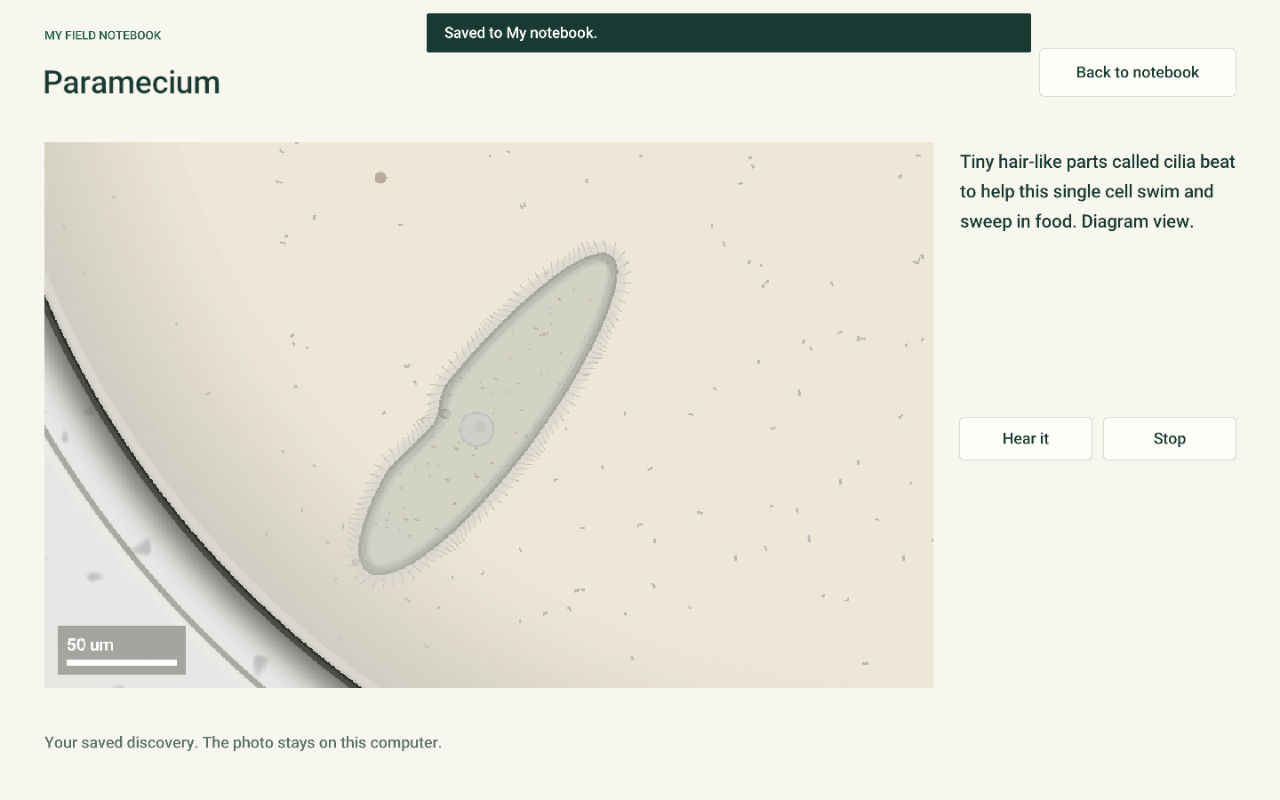
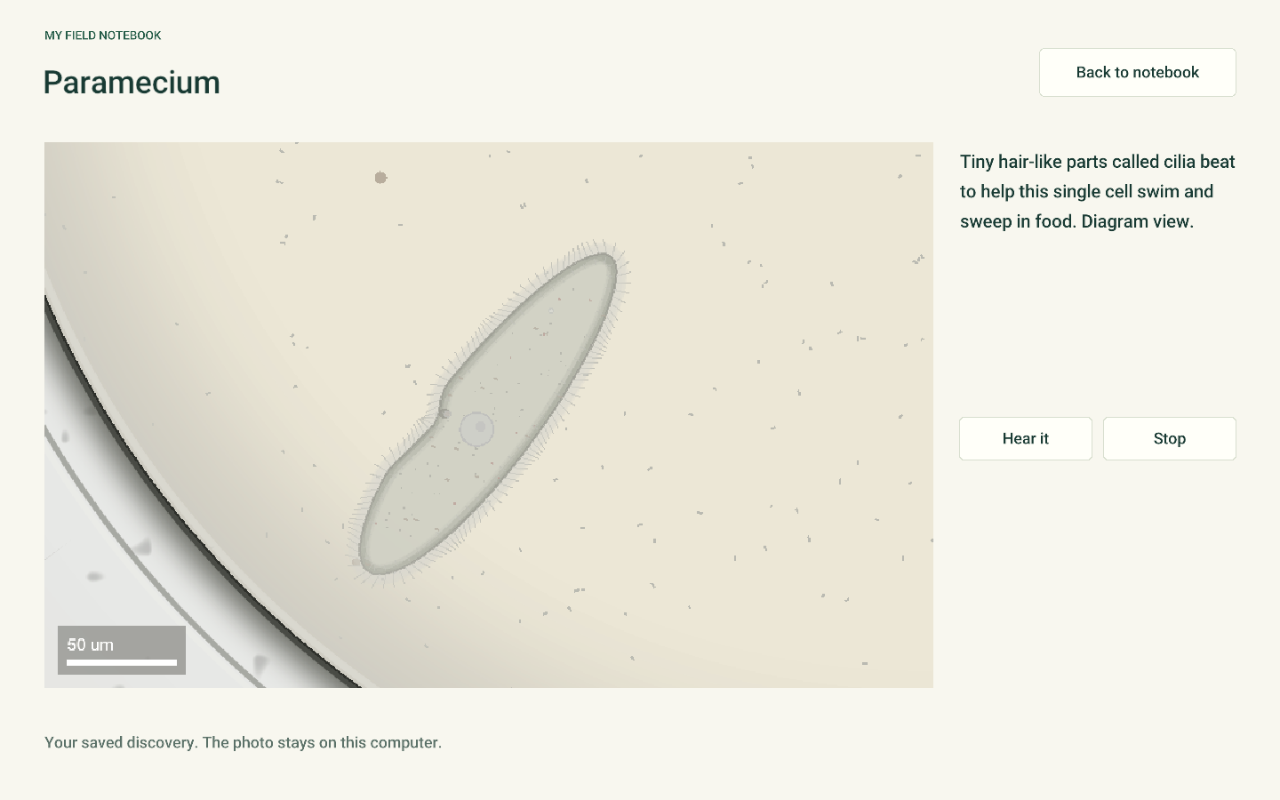
Improve spoken navigation and preserve specimen proportions in previews

Changed region(s): [[0.3125, 0.0, 0.8125, 0.0938]]

diff --git a/src/kids/main.cpp b/src/kids/main.cpp
@@ -183,6 +183,7 @@ class Application {
     std::unique_ptr<Renderer> renderer;
     RenderTexture2D canvas{}, view{}, before{};
     std::array<Texture2D, 4> previews{};
+    Texture2D labPreview{};
     Camera2D camera{};
     std::vector<Photo> photos;
     std::filesystem::path data;
@@ -205,7 +206,8 @@ class Application {
     void start(int selected);
     void renderView();
     void drawAnatomy();
-    void drawTexture(Texture2D t, Rectangle target, Color tint = WHITE);
+    void drawTexture(Texture2D t, Rectangle target, Color tint = WHITE, bool crop = false);
+    float creatureZoom() const;
     void say(const std::string &s);
     void stopSpeech();
     void note(const std::string &s) {
@@ -218,10 +220,44 @@ class Application {
     std::string narration() const;
 };
 
-void Application::drawTexture(Texture2D t, Rectangle r, Color tint) {
-    if (t.id)
-        DrawTexturePro(t, {0, 0, static_cast<float>(t.width), static_cast<float>(t.height)}, r,
-                       {0, 0}, 0, tint);
+void Application::drawTexture(Texture2D t, Rectangle r, Color tint, bool crop) {
+    if (!t.id)
+        return;
+    Rectangle source{0, 0, static_cast<float>(t.width), static_cast<float>(t.height)};
+    const float scale = crop ? std::max(r.width / source.width, r.height / source.height)
+                             : std::min(r.width / source.width, r.height / source.height);
+    if (crop) {
+        source.width = r.width / scale;
+        source.height = r.height / scale;
+        source.x = (static_cast<float>(t.width) - source.width) / 2;
+        source.y = (static_cast<float>(t.height) - source.height) / 2;
+    } else {
+        const float width = source.width * scale, height = source.height * scale;
+        r = {r.x + (r.width - width) / 2, r.y + (r.height - height) / 2, width, height};
+    }
+    DrawTexturePro(t, source, r, {0, 0}, 0, tint);
+}
+
+float Application::creatureZoom() const {
+    if (!session.world || session.selected.kind != Picked::Kind::Cell)
+        return 2.0f;
+    const auto *body = session.world->registry().try_get<RingBody>(session.selected.entity);
+    if (!body)
+        return 2.0f;
+    const Vec2 size = body->aabbMax - body->aabbMin;
+    const float extent = std::max(size.x, size.y);
+    float zoom = 300.0f / std::max(1.0f, extent);
+    // El hilo de Euglena necesita margen al girar. Usa el mismo largo que el render.
+    if (session.selectedCreature() == 2) {
+        float halfLength = 0;
+        for (const Vec2 &point : body->restRing)
+            halfLength = std::max(halfLength, std::abs(point.x));
+        const auto &info =
+            speciesInfo(session.world->registry().get<Species>(session.selected.entity).id);
+        const float flagellum = info.flagellumLength > 0 ? info.flagellumLength : 2.2f * halfLength;
+        zoom = std::min(zoom, 220.0f / std::max(1.0f, halfLength + flagellum + 4.0f));
+    }
+    return std::clamp(zoom, .25f, 10.0f);
 }
 
 void Application::stopSpeech() {
@@ -241,6 +277,7 @@ void Application::start(int selected) {
         return;
     }
     try {
+        stopSpeech();
         session.start(static_cast<kids::Experience>(route), selected);
         activity = true;
         baselineRequested = false;
@@ -255,7 +292,7 @@ void Application::start(int selected) {
         camera.zoom = route == 3 ? 2.1f : 1.05f;
         camera.offset = {viewRect.width / 2, viewRect.height / 2};
         if (route == 2 || route == 4)
-            camera.zoom = 2.0f;
+            camera.zoom = creatureZoom();
         renderView();
         BeginTextureMode(before);
         DrawTextureRec(view.texture,
@@ -309,6 +346,12 @@ void Application::home() {
     ui.text("SMALL WORLD, BIG DISCOVERIES", 255, 44, 16, green);
     ui.text("What will you discover today?", 252, 77, 42);
     ui.text("Look closer. Try something. Follow your curiosity.", 255, 137, 23, muted);
+    if (ui.button("Hear choices", {1040, 118, 220, 48}))
+        say("Choose your adventure. Pocket Pond: explore a habitat. Tiny Detectives: solve a "
+            "little mystery. Micro Safari: meet a living thing. Wonder Lab: try an experiment. "
+            "A Drop of Adventure: follow a story. Your saved photos are in My notebook.");
+    if (ui.button("Stop", {1275, 118, 127, 48}))
+        stopSpeech();
     const Rectangle hero{254, 195, 1148, 262};
     habitatArt(hero, 0);
     ui.box({276, 218, 493, 216}, paper);
@@ -330,6 +373,7 @@ void Application::home() {
         ui.text(names[static_cast<std::size_t>(i)], x + 79, y + 24, 27);
         ui.text(verbs[static_cast<std::size_t>(i)], x + 79, y + 67, 21, muted);
         if (ui.button("Go", {x + 453, y + 70, 85, 44})) {
+            stopSpeech();
             route = i;
             choice = 0;
             activity = false;
@@ -342,6 +386,22 @@ void Application::chooser() {
     ui.text("CHOOSE YOUR ADVENTURE", 255, 43, 16, green);
     ui.text(names[static_cast<std::size_t>(route)], 252, 79, 46);
     ui.text(subtitles[static_cast<std::size_t>(route)], 255, 143, 24, muted);
+    if (route == 0 || route == 2) {
+        if (ui.button("Hear choices", {1040, 118, 220, 48})) {
+            if (route == 0)
+                say("Choose a habitat. Pond: still water, lots to discover. Puddle: a little "
+                    "world after the rain. Moss: a wet home among tiny leaves. These are small, "
+                    "prepared samples of life from each habitat.");
+            else {
+                std::string choices = "Choose a tiny living thing to meet. ";
+                for (const auto &creature : kids::creatures())
+                    choices += std::string(creature.name) + ": " + creature.title + ". ";
+                say(choices + "The previews are shown at different sizes.");
+            }
+        }
+        if (ui.button("Stop", {1275, 118, 127, 48}))
+            stopSpeech();
+    }
     if (route == 0) {
         const char *labels[] = {"Pond", "Puddle", "Moss"};
         const char *desc[] = {"Still water. Lots to discover.", "A little world after the rain.",
@@ -360,14 +420,15 @@ void Application::chooser() {
             const float x = 254 + static_cast<float>(i % 2) * 586,
                         y = 212 + static_cast<float>(i / 2) * 285;
             ui.box({x, y, 562, 258}, white);
-            drawTexture(previews[static_cast<std::size_t>(i)], {x + 16, y + 18, 218, 173});
+            drawTexture(previews[static_cast<std::size_t>(i)], {x + 16, y + 18, 218, 173}, WHITE,
+                        true);
             const auto &c = kids::creatures()[static_cast<std::size_t>(i)];
             ui.text(c.name, x + 254, y + 28, 28);
             ui.wrap(c.title, x + 254, y + 76, 275, 23);
             if (ui.button(std::string("Meet ") + c.name, {x + 254, y + 170, 280, 58}, true))
                 start(i);
         }
-        ui.text("These are simulated living things, not photographs.", 255, 824, 19, muted);
+        ui.text("Preview sizes differ. Meet one to see its scale.", 255, 824, 19, muted);
     } else {
         const char *heading = route == 1   ? "Who swims with tiny hairs?"
                               : route == 3 ? "What if we add salt?"
@@ -382,7 +443,7 @@ void Application::chooser() {
         if (route == 4)
             habitatArt({278, 242, 500, 466}, 0);
         else
-            drawTexture(previews[route == 3 ? 1 : 0], {278, 242, 500, 466});
+            drawTexture(route == 3 ? labPreview : previews[0], {278, 242, 500, 466}, WHITE, true);
         ui.text(route == 1   ? "CASE 01"
                 : route == 3 ? "TRY IT AND SEE"
                              : "LISTEN AND LOOK",
@@ -953,7 +1014,7 @@ int Application::run(int argc, char **argv) {
     for (int i = 0; i < 4; ++i) {
         session.start(kids::Experience::Safari, i);
         camera = {};
-        camera.zoom = i == 3 ? .65f : 1.4f;
+        camera.zoom = creatureZoom();
         camera.offset = {402, 247};
         Vec2 pos;
         if (session.selectedPosition(pos))
@@ -966,6 +1027,16 @@ int Application::run(int argc, char **argv) {
         previews[static_cast<std::size_t>(i)] = LoadTextureFromImage(image);
         UnloadImage(image);
     }
+    session.start(kids::Experience::Lab);
+    camera = {};
+    camera.zoom = 2.1f;
+    camera.offset = {402, 247};
+    camera.target = {session.world->width() / 2, session.world->height() / 2};
+    renderView();
+    Image labImage = LoadImageFromTexture(view.texture);
+    ImageFlipVertical(&labImage);
+    labPreview = LoadTextureFromImage(labImage);
+    UnloadImage(labImage);
     int screenshotFrames = 0;
     std::string screenshot;
     for (int i = 1; i < argc; ++i) {
@@ -1091,6 +1162,8 @@ int Application::run(int argc, char **argv) {
     for (auto t : previews)
         if (t.id)
             UnloadTexture(t);
+    if (labPreview.id)
+        UnloadTexture(labPreview);
     for (auto t : habitatTextures)
         if (t.id)
             UnloadTexture(t);

diff --git a/docs/design/kids-review.md b/docs/design/kids-review.md
@@ -36,6 +36,22 @@ without scrolling or clipped controls. The read-aloud controls stay in place whe
 explanations change. Story progression keeps its button position between chapters.
 Keyboard focus is visible; Tab, Enter, Space, +/- and Escape have been exercised.
 
+An additional review found that early readers needed help before entering an
+activity. Home, habitat selection and organism selection now offer “Hear
+choices” and Stop. The guide was exercised through native clicks and a local
+Speech Dispatcher playback stream. A screenshot exposed overlap with the
+speech-status banner; moving the controls below it resolved that overlap.
+
+Organism thumbnails originally stretched a wide viewport into a narrower box,
+and Euglena was too small to recognise. Previews now preserve proportions and
+frame each organism with its own camera zoom. The picker states that sizes
+differ. Live Safari initially fits its organism too. The Wonder Lab introduction
+now renders its own onion preparation instead of reusing the Amoeba preview.
+Saved photos use proportional fitting to retain the full picture and scale bar.
+The corrected [organism picker](../img/kids/safari-choices.png),
+[Euglena framing](../img/kids/safari-euglena.png) and
+[onion introduction](../img/kids/lab-chooser.png) are native captures of this pass.
+
 Photo viewing was added after reviewing the notebook at full size. Scale labels
 now use the app font, while seed and timing remain in the provenance sidecar.
 Only the visible notebook page loads image textures. Empty/end pagination is disabled.
@@ -83,6 +99,13 @@ six failures in complex candidate division tests; see
 No tests have been skipped or marked expected failure to hide those results.
 The neutrophil approach test was changed separately to state individual and
 ensemble stochastic expectations; no biological parameters were tuned.
+
+A focused Gonium run reproduced two boundary failures under ASan/UBSan without
+a sanitizer diagnostic. A geometry trace finds transient crossings shortly
+after daughter release. A separate Ceratium trace remains in division at 180
+simulation seconds, with progress approximately 6 and a stalled furrow. These
+observations narrow the investigation; they do not establish a fix or validate
+those mechanisms.
 
 ## Remaining acceptance work
 

diff --git a/docs/mechanics/kids-interface.md b/docs/mechanics/kids-interface.md
@@ -101,3 +101,16 @@ honours `XDG_DATA_HOME`; the default remains `~/.local/share/open-microcosm-kids
 Kids photos use the app font for a clear scale bar. Run time and seed remain in
 its JSON sidecar rather than being stamped across the child's picture. The
 original laboratory retains its existing stamped-photo defaults.
+
+Home, habitat selection and organism selection provide a local “Hear choices”
+guide before a child enters an activity. Starting an activity or changing pages
+stops the previous guide. The guide controls sit below the transient status
+banner so both remain readable while speech is playing.
+
+Picker previews preserve the renderer's proportions: they are cropped to fill
+their thumbnail, never stretched. Their camera zoom fits the chosen organism,
+and a visible note explains that preview sizes differ. Live Safari also frames
+the selected organism initially; the live scale bar remains authoritative.
+The Wonder Lab introduction is rendered from its actual onion preparation,
+separately from the four organism previews. Notebook photos preserve the entire
+image with proportional fitting rather than cropping away their scale bar.

diff --git a/docs/bugs/candidate-division-regressions.md b/docs/bugs/candidate-division-regressions.md
@@ -51,6 +51,18 @@ respectively fail at `test_candidates.cpp:57` or `:64`. The ongoing workstation
 run is logged at `/tmp/microcosm-kids-all-tests.log`. This file records observed
 failures rather than relying on an unavailable CI badge.
 
+A focused Gonium test also fails two boundary checks under ASan/UBSan without
+a sanitizer diagnostic (`/tmp/microcosm-gonium-asan.log`). A trace linked with
+the full test objects finds crossing boundaries after daughter release, persisting
+at step 31. A minimal candidate-only binary passes the half-second boundary
+check, despite transient earlier crossings; the geometry is sensitive to build
+context. This difference is evidence to investigate, not a reason to discard
+the complete-suite failure. No biological parameters were changed.
+
+For Ceratium, a seeded trace reaches progress 5.9991 at 180 simulated seconds,
+with one cell and two crossed boundary pairs. The measured furrow half-width
+stalls near 1.08 micrometres. Progress alone does not imply valid separation.
+
 ## Cause
 
 Unknown. Complex boundaries, rest-shape reconstruction and closure constraints

diff --git a/docs/todo/kids-interface.md b/docs/todo/kids-interface.md
@@ -30,3 +30,11 @@ sizes have been checked. The shared inspector/export notch bounds errors were
 reproduced and fixed; the inspector and kids controller pass sanitizer runs.
 The complete upstream CTest run is still in progress. Do not mark verification
 complete until its terminal result and the packaged-app smoke review are saved.
+
+The separate user-local installation and smoke review have passed and were
+published in commit `70dec1f`. Further native reviews added spoken choice guides,
+corrected thumbnail proportions and the onion introduction, and improved initial
+Safari framing. The full suite is still active; six candidate-division failures
+are recorded in `docs/bugs/candidate-division-regressions.md`, with focused
+geometry/sanitizer evidence. Do not replace this unresolved gate with the passing
+focused kids tests.

diff --git a/README.md b/README.md
@@ -25,6 +25,7 @@ is not green. See the [review evidence and remaining work](docs/design/kids-revi
 All five share pause, zoom, a labelled diagram view, optional local read-aloud,
 and a photo notebook with full-size viewing, saved on your own computer. There are no accounts,
 advertisements, points or cloud speech requests.
+The home screen and habitat/organism pickers can read their choices aloud too.
 
 This is a computer model, not a view through a physical microscope. Habitat
 samples are curated, and some processes use accelerated biological time.
